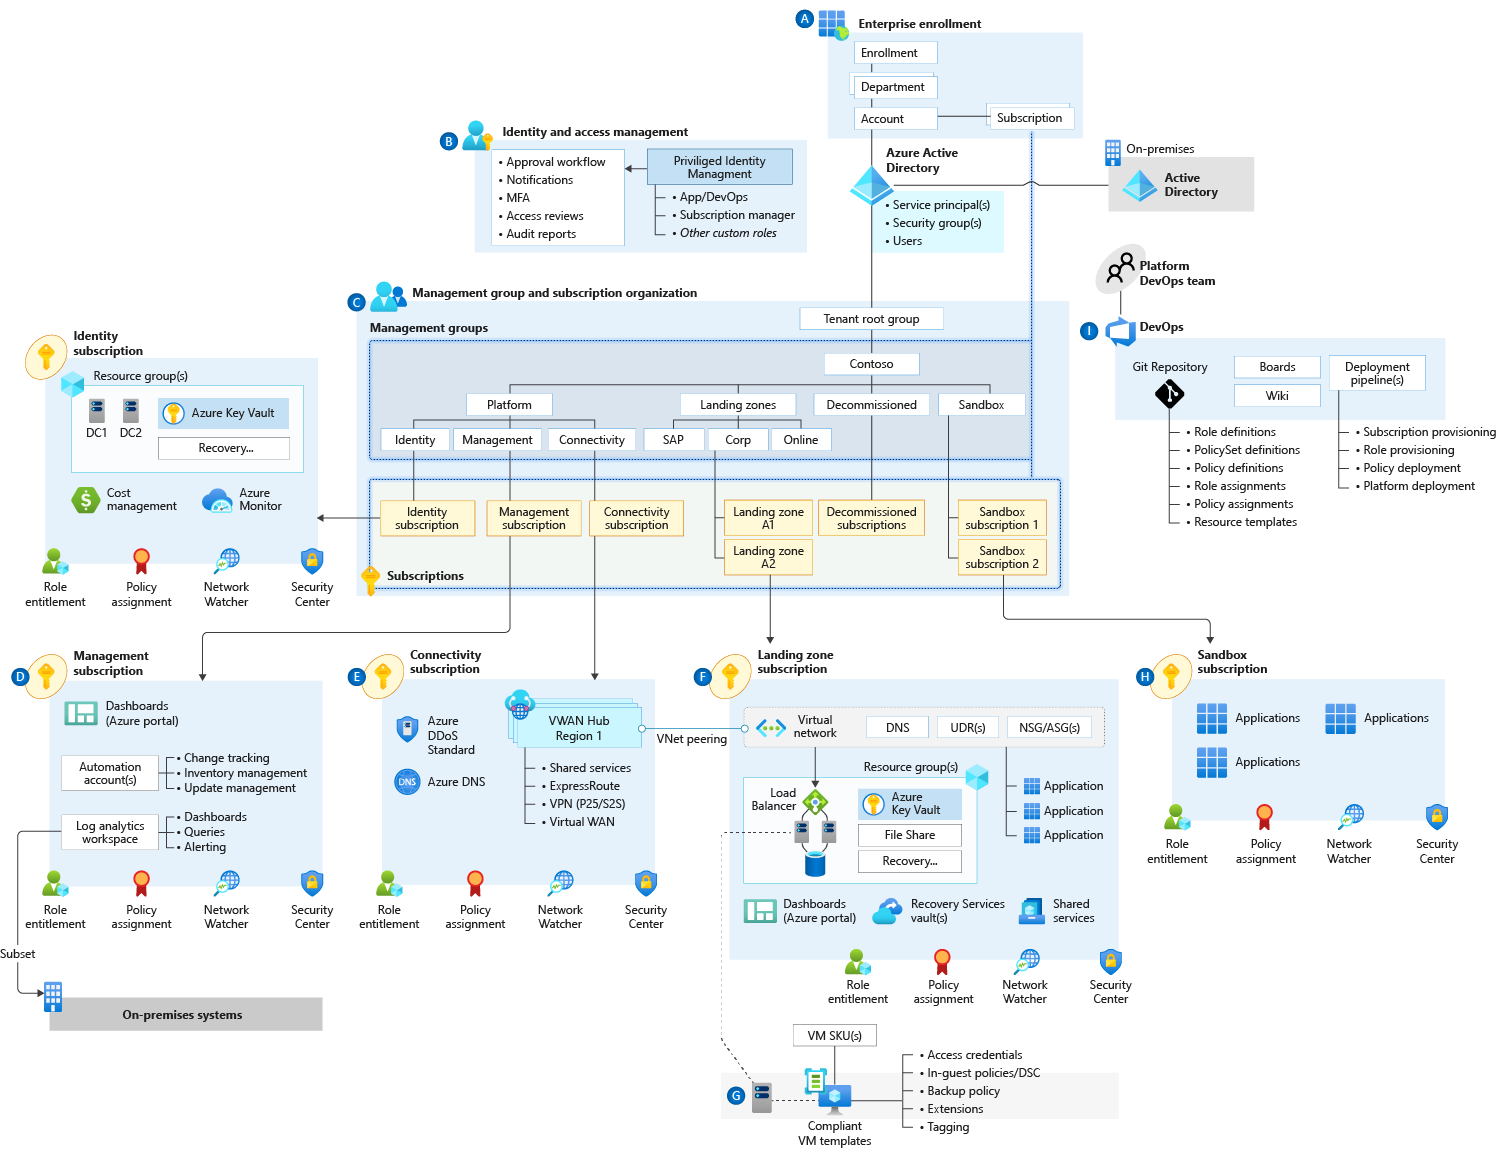
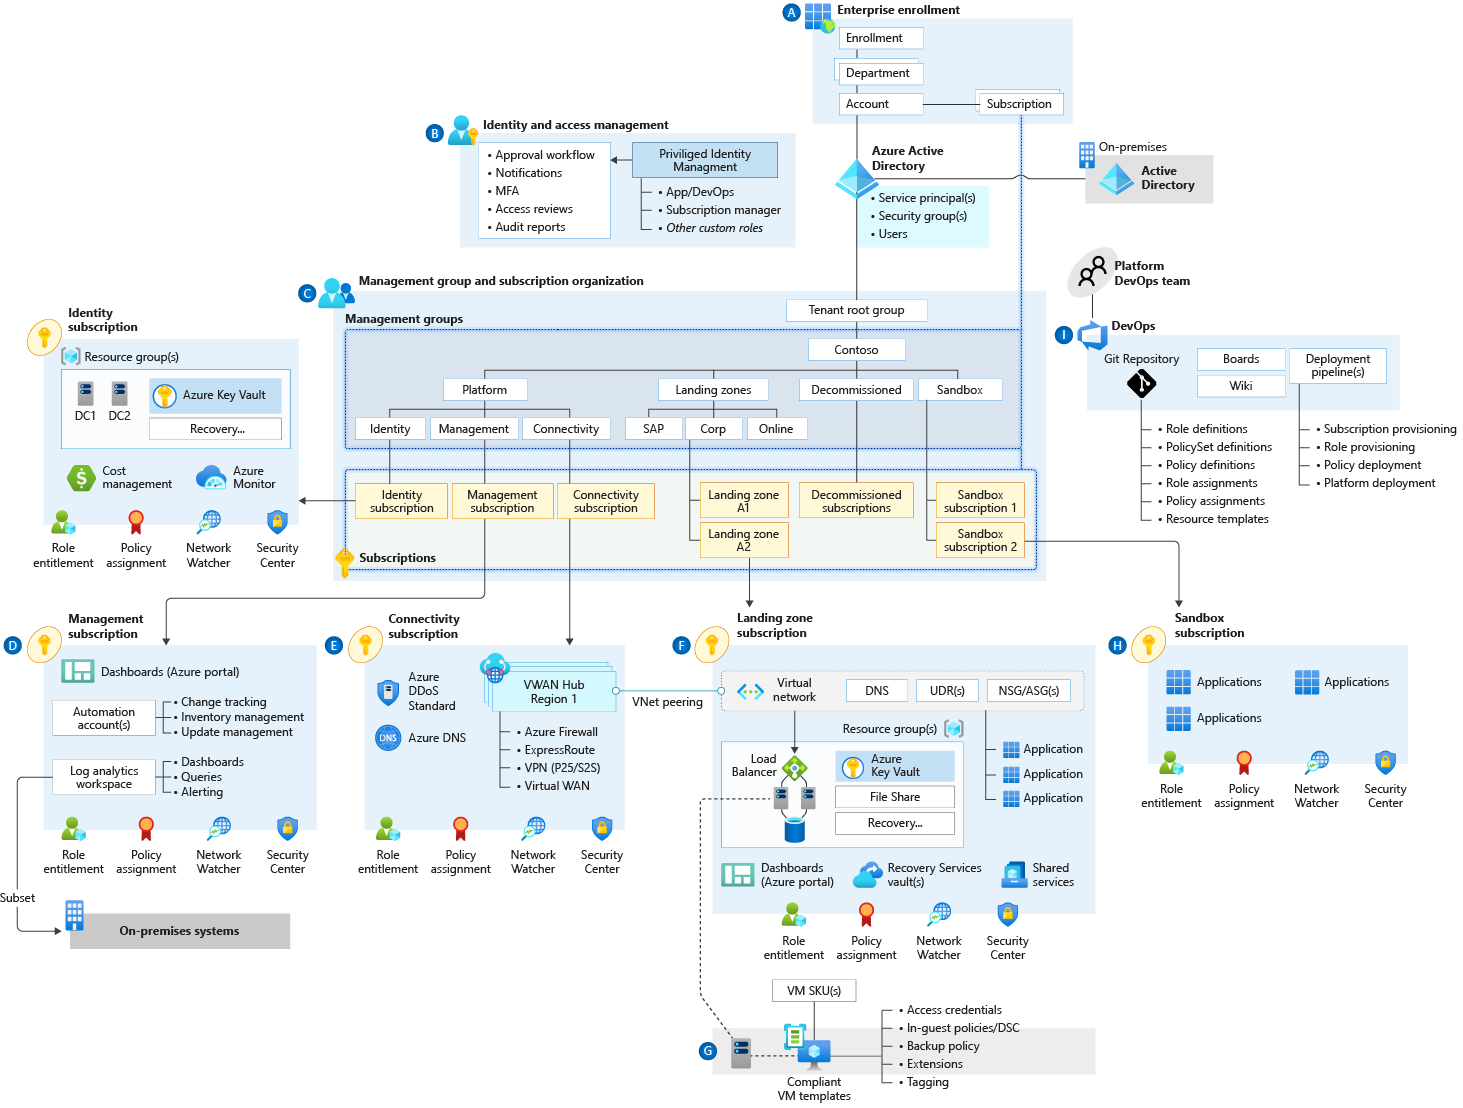
Updates to ES architecture article

Changed region(s): [[0.0, 0.0, 1.0, 1.0], [0.7382, 0.1227, 0.8612, 0.1841]]

diff --git a/docs/ready/enterprise-scale/architecture.md b/docs/ready/enterprise-scale/architecture.md
@@ -38,35 +38,32 @@ An example is how city utilities such as water, gas, and electricity are accessi
 
 _Figure 1: Landing zone design._
 
-## Expanded list of requisite components
-
-The following list expands on the landing zone illustration. It outlines the core technical constructs that must be designed and developed within the context of customer requirements to create compliant technical landing zone environments and the conditions for successful Azure adoption.
-
-- **Identity and access management:** Azure Active Directory design and integration must be built to ensure both server and user authentication. Resource-based access control (RBAC) must be modeled and deployed to enforce separation of duties and the required entitlements for platform operation and management. Key management must be designed and deployed to ensure secure access to resources and support operations such as rotation and recovery. Ultimately, access roles are assigned to application owners at the control and data planes to create and manage resources autonomously.
-
-- **Policy management:** Holistic and landing-zone-specific policies must be identified, described, built, and deployed onto the target Azure platform to ensure corporate, regulatory, and line-of-business controls are in place. Ultimately, policies should be used to guarantee the compliance of applications and underlying resources without any abstraction provisioning or administration capability.
-
-- **Management and monitoring:** Platform-level holistic (horizontal) resource monitoring and alerting must be designed, deployed, and integrated. Operational tasks such as patching and backup must also be defined and streamlined. Security operations, monitoring, and logging must be designed and integrated with both resources on Azure and existing on-premises systems. All subscription activity logs that capture control plane operations across resources should be streamed into Log Analytics to make them available for query and analysis, subject to RBAC permissions.
-
-- **Network topology and connectivity:** The end-to-end network topology must be built and deployed across Azure regions and on-premises environments to ensure north-south and east-west connectivity between platform deployments. Required services and resources such as firewalls and network virtual appliances must be identified, deployed, and configured throughout network security design to ensure that security requirements are fully met.
-
-- **Shared services infrastructure:** Centrally controlled but broadly deployed services such as domain controllers must be designed, configured, and built to help application teams consume and integrate with necessary and common services and resources. Not all traditional and shared on-premises services should be provided in the cloud. For example, file shares and hardware security modules should be considered as application-level resources that use native Azure services.
-
-- **DevOps:** An end-to-end DevOps experience with robust software development lifecycle practices must be designed, built, and deployed to ensure a safe, repeatable, and consistent delivery of infrastructure-as-code artifacts. Such artifacts are to be developed, tested, and deployed by using dedicated integration, release, and deployment pipelines with strong source control and traceability.
-
-In addition to the key aspects denoted here, the design, configuration, deployment, and integration of each landing zone should meet your organization's critical requirements relating to:
-
-- Business continuity and disaster recovery at platform and application levels.
-- Service management, such as incident response and support.
-- A service catalog (for example, a configuration management database).
 
 ## High-level architecture
 
+An Enterprise-Scale architecture is defined by a set of design considerations and recommendations across eight [critical design areas](./design-guidelines.md), with two network topologies recommended: an Enterprise-Scale architecture based on an Azure Virtual WAN network topology (depictured on figure 2), or based on a traditional Azure network topology based on the hub and spoke architecture (depicted on figure 3).   
+
 [![Diagram that shows Cloud Adoption Framework enterprise-scale landing zone architecture.](./media/ns-arch-inline.png)](./media/ns-arch-expanded.png#lightbox)
 
-_Figure 2: Cloud Adoption Framework enterprise-scale landing zone architecture._
+_Figure 2: Cloud Adoption Framework enterprise-scale landing zone architecture based on an Azure Virtual WAN network topology._
 
-Download the [PDF file](https://raw.githubusercontent.com/microsoft/CloudAdoptionFramework/master/ready/enterprise-scale-architecture.pdf) that contains this architecture diagram.
+[![Diagram that shows Cloud Adoption Framework enterprise-scale landing zone architecture.](./media/ns-arch-cust-inline.png)](./media/ns-arch-expanded.png#lightbox)
+
+_Figure 3: Cloud Adoption Framework enterprise-scale landing zone architecture based on a traditional Azure networking topology._
+
+Download the PDF files that contain the Enterprise-Scale architecture diagrams based on the [Virtual WAN](https://raw.githubusercontent.com/microsoft/CloudAdoptionFramework/master/ready/enterprise-scale-architecture.pdf) network topology or a traditional Azure network topology based on the [hub and spoke](https://raw.githubusercontent.com/microsoft/CloudAdoptionFramework/master/ready/enterprise-scale-architecture.pdf) architecture.
+
+On figures 2 and 3 you can see references to the Enterprise-Scale critical design areas, indicated with the letters A to I:
+
+- **A -** [Enterprise Agreement (EA) enrollment and Azure Active Directory tenants](./enterprise-enrollment-and-azure-ad-tenants.md) critical design area. An Enterprise Agreement (EA) enrollment represents the commercial relationship between Microsoft and how your organization uses Azure. It provides the basis for billing across all your subscriptions and affects administration of your digital estate. Your EA enrollment is managed via an Azure enterprise portal. An enrollment often represents an organization's hierarchy, which includes departments, accounts, and subscriptions. An Azure AD tenant provides identity and access management, which is an important part of your security posture. An Azure AD tenant ensures that authenticated and authorized users have access to only the resources for which they have access permissions.
+- **B -** [Identity and access management](./identity-and-access-management.md). Azure Active Directory design and integration must be built to ensure both server and user authentication. Resource-based access control (RBAC) must be modeled and deployed to enforce separation of duties and the required entitlements for platform operation and management. Key management must be designed and deployed to ensure secure access to resources and support operations such as rotation and recovery. Ultimately, access roles are assigned to application owners at the control and data planes to create and manage resources autonomously.
+- **C -** [Management group and subscription organization](./management-group-and-subscription-organization.md). Management group structures within an Azure Active Directory (Azure AD) tenant support organizational mapping and must be considered thoroughly when an organization plans Azure adoption at scale. Subscriptions are a unit of management, billing, and scale within Azure. They play a critical role when you're designing for large-scale Azure adoption. This critical design area helps you capture subscription requirements and design target subscriptions based on critical factors. These factors are environment type, ownership and governance model, organizational structure, and application portfolios.
+- **D -** [Management and monitoring](./management-and-monitoring.md). Platform-level holistic (horizontal) resource monitoring and alerting must be designed, deployed, and integrated. Operational tasks such as patching and backup must also be defined and streamlined. Security operations, monitoring, and logging must be designed and integrated with both resources on Azure and existing on-premises systems. All subscription activity logs that capture control plane operations across resources should be streamed into Log Analytics to make them available for query and analysis, subject to RBAC permissions.
+- **E -** [Network topology and connectivity](./network-topology-and-connectivity.md). The end-to-end network topology must be built and deployed across Azure regions and on-premises environments to ensure north-south and east-west connectivity between platform deployments. Required services and resources such as firewalls and network virtual appliances must be identified, deployed, and configured throughout network security design to ensure that security requirements are fully met.
+
+- **F, G, H -** [Business continuity and disaster recovery](./business-continuity-and-disaster-recovery.md) and [Security, governance, and compliance](./security-governance-and-compliance.md). Holistic and landing-zone-specific policies must be identified, described, built, and deployed onto the target Azure platform to ensure corporate, regulatory, and line-of-business controls are in place. Ultimately, policies should be used to guarantee the compliance of applications and underlying resources without any abstraction provisioning or administration capability.
+
+- **I -** [Platform automation and DevOps](platform-automation-and-devops.md). An end-to-end DevOps experience with robust software development lifecycle practices must be designed, built, and deployed to ensure a safe, repeatable, and consistent delivery of infrastructure-as-code artifacts. Such artifacts are to be developed, tested, and deployed by using dedicated integration, release, and deployment pipelines with strong source control and traceability.
 
 ## Next steps
 
